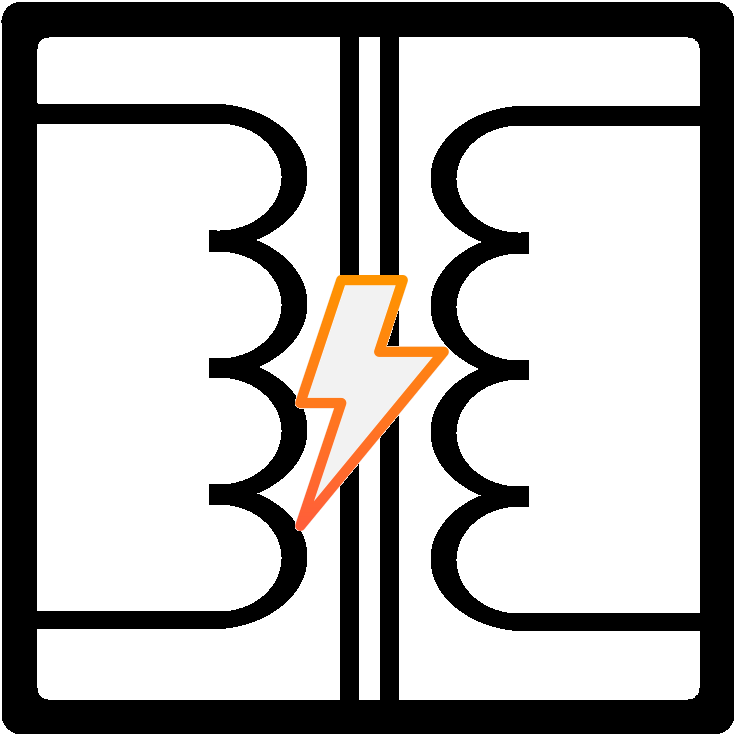
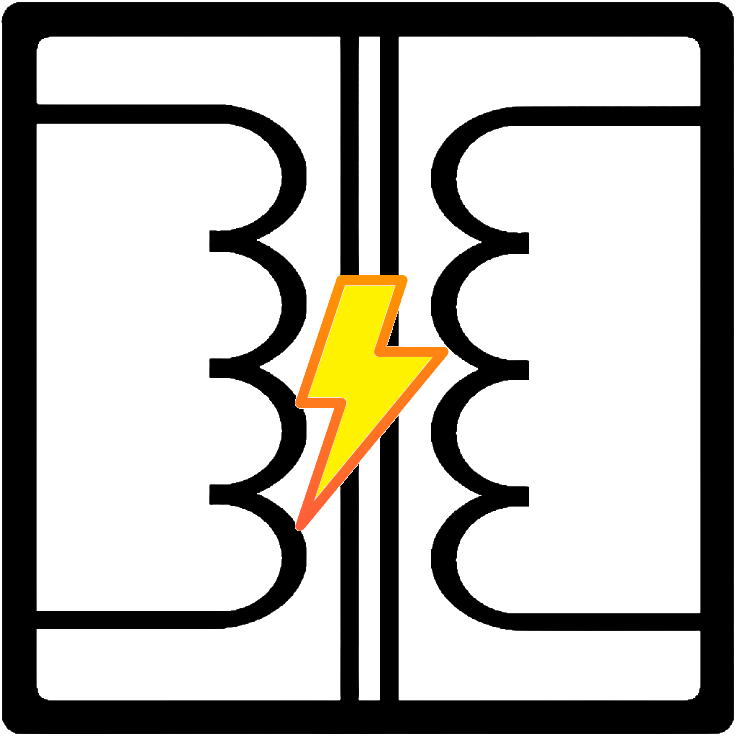
images and css file updates

Changed region(s): [[0.4057, 0.3745, 0.5929, 0.6866], [0.2809, 0.6554, 0.3121, 0.6866]]

diff --git a/src/main/resources/public/css/splash.css b/src/main/resources/public/css/splash.css
@@ -3,7 +3,7 @@ body {
   padding: 0;
   font-family: calibri;
   background-color: rgb(150, 150, 255);
-  font-size: 14px;
+  font-size: 17px;
 }
 sup {
     vertical-align: super;